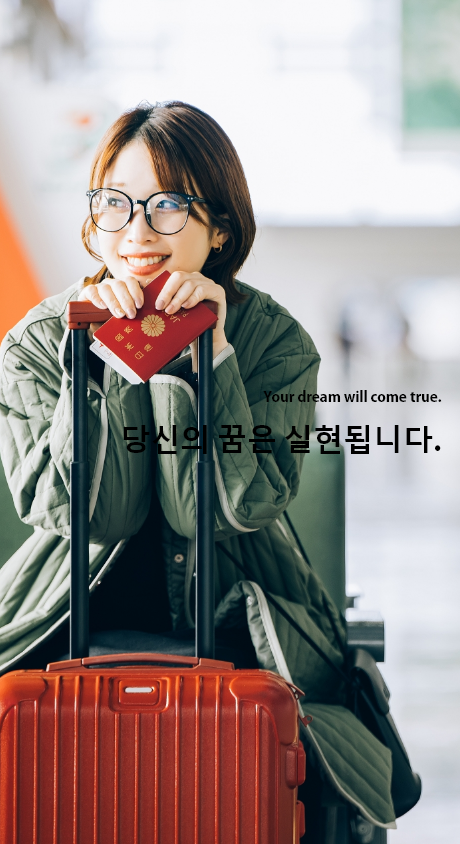
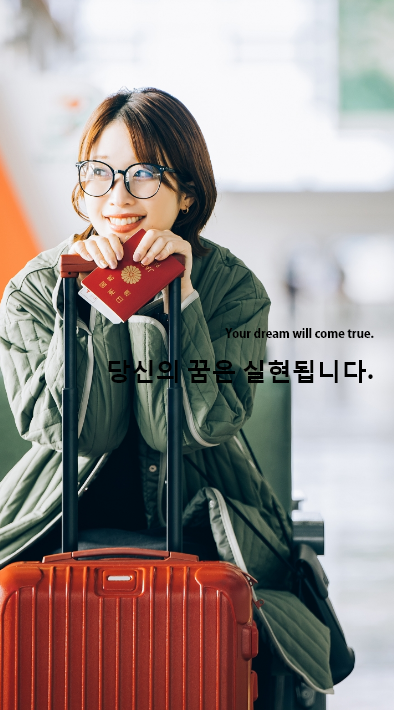
index:scroll-x実装,main_img_sp修正 why:img変更

diff --git a/public/css/app.css b/public/css/app.css
@@ -1282,6 +1282,7 @@ p.news {
 .clinic_table {
     width: 60vw;
     text-align: center;
+    border-spacing: 0;
     border-collapse:  separate;
     font: normal normal normal 1vw/2vw Kozuka Gothic Pr6N;
 }
@@ -1500,7 +1501,7 @@ td.border-bottom-right {
     }
     .text_end_sp {
         text-align: center;
-        font: normal normal bold 14px/25px Kozuka Gothic Pr6N;
+        font: normal normal normal 14px/25px Kozuka Gothic Pr6N;
         color: #000000;
         margin-bottom: 20px;
     }
@@ -1514,9 +1515,18 @@ td.border-bottom-right {
         margin: 50px auto 20px;
     }
     .sec2_sp {
-        padding:0 20px;
-        margin-bottom: 3vw;
+        padding:5vw 20px;
     }
+
+    .sec2_sp_wrapper {
+        display: flex;
+        overflow-x: scroll;
+    }
+
+    .sec2_sp .coop_img {
+        width: 90vw;
+    }
+
     .sec2_list_sp {
         margin-top: 10px;
         width: 100%;
@@ -1528,7 +1538,7 @@ td.border-bottom-right {
         flex-direction: column;
     }
     .sec2_item {
-        width:105px;
+        width:104px;
         margin-right: 5vw;
     }
 
@@ -1580,6 +1590,7 @@ td.border-bottom-right {
         letter-spacing: 0.6px;
         color: #FFFFFF;
         margin-left: auto;
+        margin-top: 20vw;
     }
     .sec3_bg_box {
         width: 100%;
@@ -1735,6 +1746,10 @@ td.border-bottom-right {
         margin-bottom: 10px;
     }
 
+    section.common {
+        margin-bottom: 20vw;
+    }
+
     .sec8_news_list {
         width: 90vw;
         display: block;
@@ -1807,10 +1822,10 @@ td.border-bottom-right {
 
     section.why_section1 {
         margin: 0;
-        background-image: url(../img/why_sec1_bg.png);
-        background-size: contain;
+        background-image: url(../img/why_sec1_bg_SP.png);
+        background-size: cover;
         background-repeat: no-repeat;
-        background-position: right -15vw center;
+        background-position: right -20vw center;
     }
 
     .why_section1 p {
@@ -1828,6 +1843,7 @@ td.border-bottom-right {
 
     div.sociallink p {
         margin: -6vw auto 1vw;
+        color: #fff;
     }
 
     /* contact関連 */
@@ -2041,7 +2057,7 @@ td.border-bottom-right {
     .service_humans {
         background-image: url(../img/service_humans_sp.png);
         width: 100vw;
-        height: 106vw;
+        height: 105vw;
         background-position: center;
         background-size: cover;
         padding-top: 32vw;
@@ -2050,7 +2066,7 @@ td.border-bottom-right {
         z-index: 1000;
         position: relative;
         text-align: center;
-        font: normal normal normal 12px/25px メイリオ;
+        font: normal normal normal 12px/25px Kozuka Gothic Pr6N;
         color: #fff;
     }
     .service_a {  

diff --git a/resources/views/index.blade.php b/resources/views/index.blade.php
@@ -227,8 +227,10 @@
 
 <div class="sec_title">提携クリニック</div>
 
+<div class="sec2_sp_wrapper">
+
 <div class="sec2_sp">
-    <img src="{{ asset('img/sec2_bg_sp.png') }}" style="width: 100%;">
+    <img class="coop_img" src="{{ asset('img/sec2_bg_sp.png') }}">
 
     <div class="sec2_list_sp">
         <div class="sec2_item"><img src="{{ asset('img/sec2_list1.png')}}" class="sec2_img"><div class="sec2_name">パクヤンス院長</div></div>
@@ -238,6 +240,21 @@
         <div class="sec2_item_last"><img src="{{ asset('img/sec2_list5.png')}}" class="sec2_img"><div class="sec2_name">パクイヒョン院長</div></div>
         <div class="sec2_item_last"><img src="{{ asset('img/sec2_list6.png')}}" class="sec2_img"><div class="sec2_name">チョスンウ院長</div></div>
     </div>
+</div>
+
+<div class="sec2_sp">
+    <img class="coop_img" src="{{ asset('img/sec2_bg2_sp.png') }}">
+
+    <div class="sec2_list_sp">
+        <div class="sec2_item"><img src="{{ asset('img/sec2_list8.png')}}" class="sec2_img"><div class="sec2_name">チャン·ヨンウ院長</div></div>
+        <div class="sec2_item"><img src="{{ asset('img/sec2_list9.png')}}" class="sec2_img"><div class="sec2_name">キム·ジョンベ医師</div></div>
+        <div class="sec2_item"><img src="{{ asset('img/sec2_list10.png')}}" class="sec2_img"><div class="sec2_name">チェ・ウォンイル医師</div></div>
+        <div class="sec2_item"><img src="{{ asset('img/sec2_list11.png')}}" class="sec2_img"><div class="sec2_name">チェ・サンロク医師</div></div>
+        <div class="sec2_item_last"><img src="{{ asset('img/sec2_list12.png')}}" class="sec2_img"><div class="sec2_name">コ·ヒョソン医師</div></div>
+        <div class="sec2_item_last"><img src="{{ asset('img/sec2_list13.png')}}" class="sec2_img"><div class="sec2_name">イ・セリン医師</div></div>
+    </div>
+</div>
+
 </div>
 
 <a href="{{ route('cooperation') }}" class="pink_btn">一覧へ</a>
@@ -277,8 +294,7 @@
         </div>
         <div class="sec4_service">
             <img src="{{ asset('img/service3.png')}}">
-            病院やホテル等の<br>
-            ご提案と選択<br>
+            病院やホテル等の選択・提案<br>
             ＋<br>
             １次見積りの提案
         </div>

diff --git a/resources/views/service_flow.blade.php b/resources/views/service_flow.blade.php
@@ -183,6 +183,8 @@
     韓国で生まれ変わった貴女に<br>出会いましょう！
 </div>
 
+<div class="sociallink">
+
 <section id="section_5" class="top_section_5" style="margin-top: -3px;">
     ご相談は <span class="sec5_span">24時間</span> いつでも受付中!!<br>
     LINEやInstagramから気軽にお問合せ
@@ -193,6 +195,10 @@
         <a href="#!" style="padding-top: 12vw;"><img src="{{ asset('img/twitter.png') }}" class="sec5_icon"></a>
     </div>
 </section>
+
+<p class="footer">Copyright（C）Beauty Support All rights reserved.</p>
+
+</div>
 
 <script src="https://code.jquery.com/jquery-3.4.1.min.js" integrity="sha256-CSXorXvZcTkaix6Yvo6HppcZGetbYMGWSFlBw8HfCJo=" crossorigin="anonymous"></script>
 <script src="{{ asset('js/index_sp.js') }}"></script>
